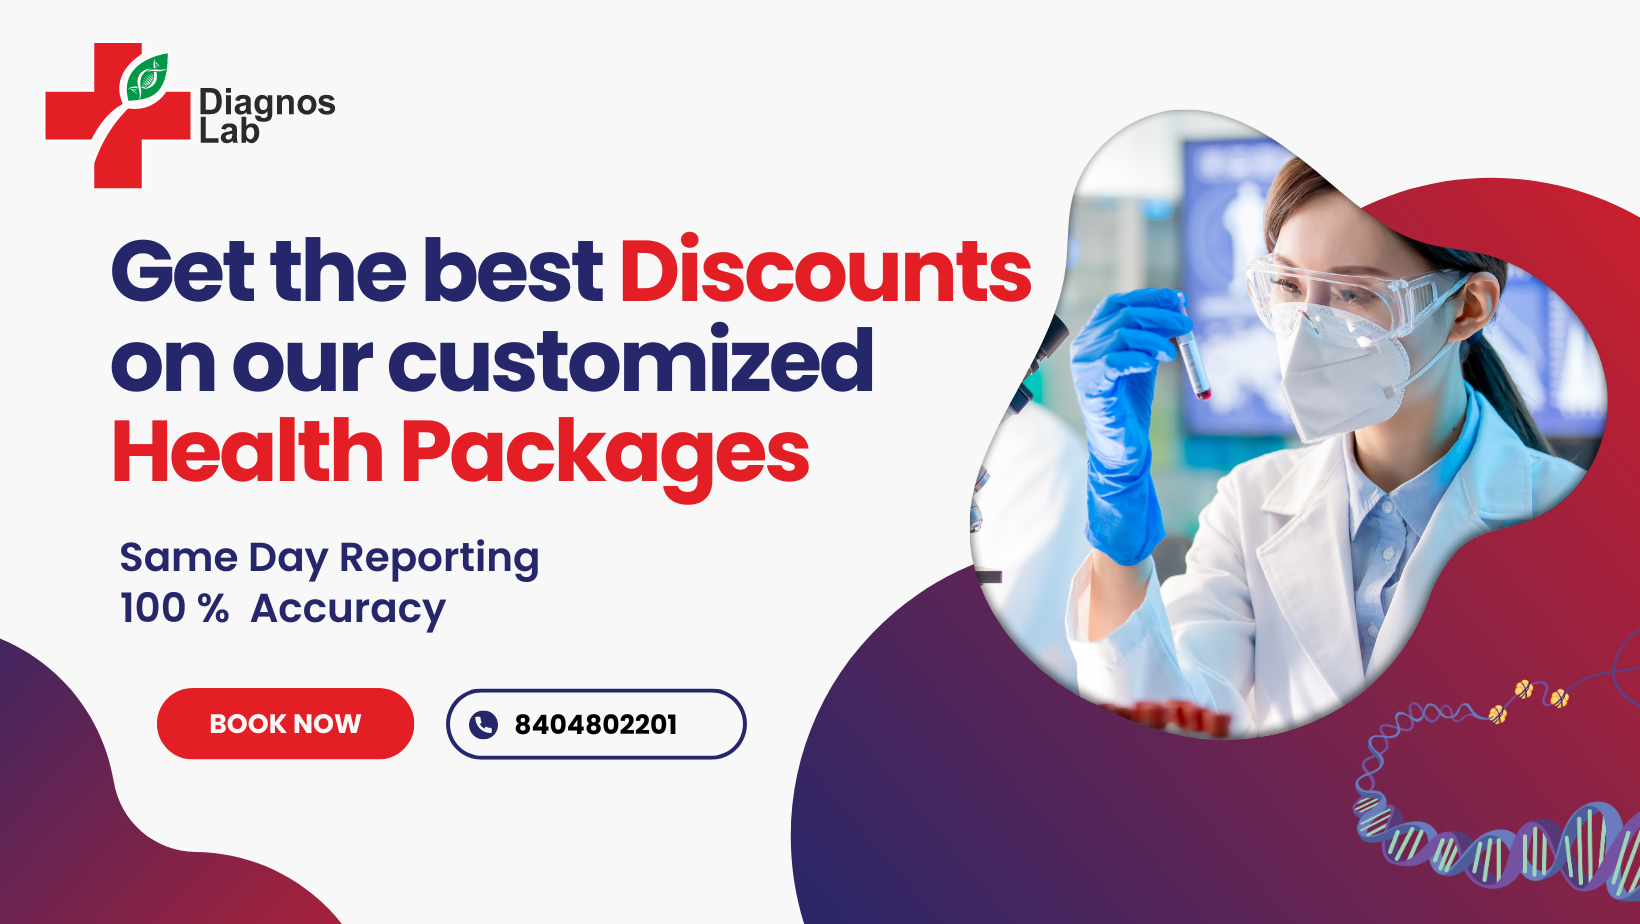
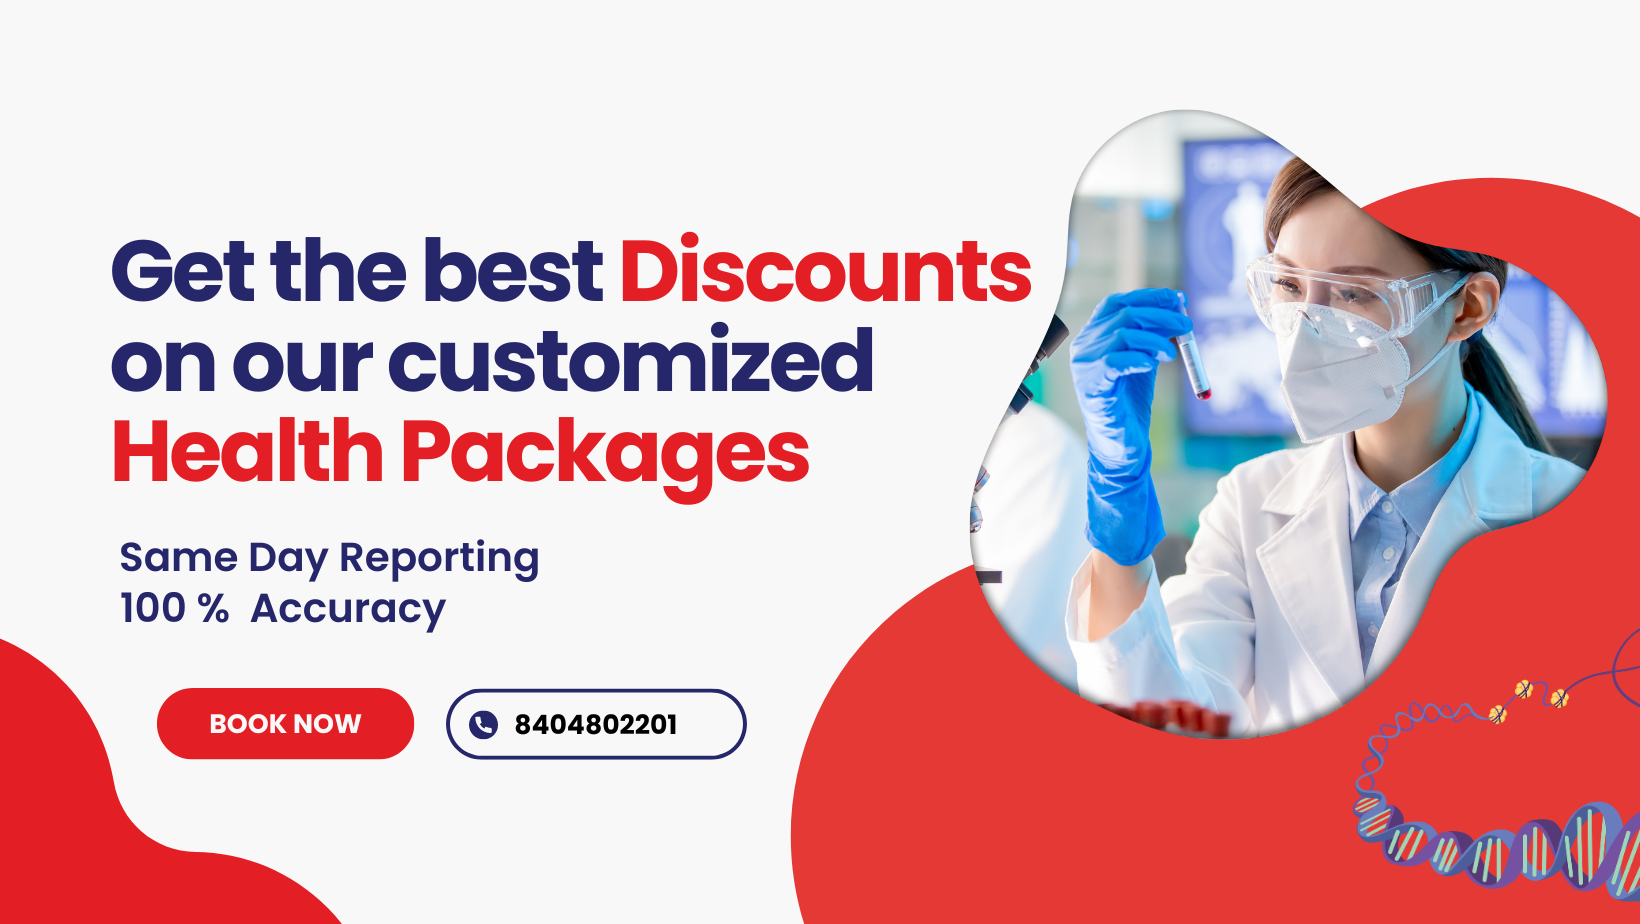
minor commit for deploy

Changed region(s): [[0.4665, 0.1818, 1.0, 1.0], [0.0, 0.697, 0.2177, 1.0], [0.0, 0.0303, 0.2177, 0.2121]]

diff --git a/app/home-collection/page.tsx b/app/home-collection/page.tsx
@@ -1,0 +1,74 @@
+"use client"
+import useFetch from '../hooks/useFetch';
+import Image from "next/image";
+
+const HomeCollection = () => {
+    const { data, loading, error } = useFetch('/home-collection.json');
+
+    if (loading) return <div>Loading...</div>;
+    if (error) return <div>Error: {error.message}</div>;
+    return (
+        <>
+            <div className="flex flex-wrap items-center justify-center mx-auto p-4 text-center border-2">
+                <div className="border-2 rounded-lg border-DiagnosRed p-4">
+                    <h1 className="text-4xl font-bold ">Get your tests done from the comfort of your home.
+                        <p className="text-DiagnosGreen">Fast, Reliable and Secure!</p></h1>
+                    <button className="mt-4 px-6 py-3 bg-DiagnosRed text-white rounded-full">Schedule Your Collection
+                    </button>
+                </div>
+                <div className="my-8">
+                    <h2 className="text-2xl font-semibold mb-4">Why Choose Our Home Collection Services?</h2>
+                    <ul className="list-disc list-inside space-y-2">
+                        <li className="flex items-center justify-center text-xl font-semibold">
+                            <span className="mr-2 text-DiagnosGreen">✔</span>Affordable Health Tests
+                        </li>
+                        <li className="flex items-center justify-center text-xl font-semibold">
+                            <span className="mr-2 text-DiagnosGreen">✔</span>100% Accurate Lab Reports
+                        </li>
+                        <li className="flex items-center justify-center text-xl font-semibold">
+                            <span className="mr-2 text-DiagnosGreen">✔</span>Vacutainer Blood Collection
+                        </li>
+                        <li className="flex items-center justify-center text-xl font-semibold">
+                            <span className="mr-2 text-DiagnosGreen">✔</span>Daily Quality Control Checks
+                        </li>
+                        <li className="flex items-center justify-center text-xl font-semibold">
+                            <span className="mr-2 text-DiagnosGreen">✔</span>Same-Day Diagnostic Reports
+                        </li>
+                    </ul>
+                </div>
+                <div className="flex flex-wrap items-center justify-center my-8">
+                    <h2 className="text-2xl font-semibold mb-4">How Our Home Collection Service Works?</h2>
+                    <Image
+                        src="/how-it-works.png"
+                        width={1024}
+                        height={1024}
+                        alt="hero_banner"
+                        className="rounded-lg "
+                    />
+                </div>
+                <div className="my-8">
+                    <h2 className="text-2xl font-semibold mb-4">Testimonials</h2>
+                    {/* Add testimonials here */}
+                </div>
+                <div className="my-8">
+                    <h2 className="text-2xl font-semibold mb-4">FAQ</h2>
+                    {data.faq.map((faqItem: any, index: number) => (
+                        <div key={index} className="mb-4">
+                            <h3 className="text-xl font-medium">{faqItem.question}</h3>
+                            <p>{faqItem.answer}</p>
+                        </div>
+                    ))}
+                </div>
+                <footer className="text-center py-6">
+                    <h3 className="text-xl font-bold mb-4">Ready to Book Your Home Collection?</h3>
+                    <p>
+                        Book your appointment <a href="/book" className="text-blue-500 underline">here</a> or call us at
+                        +91 8404802201/14
+                    </p>
+                </footer>
+            </div>
+        </>
+    );
+};
+
+export default HomeCollection;

diff --git a/app/hooks/useFetch.ts b/app/hooks/useFetch.ts
@@ -1,0 +1,30 @@
+import { useState, useEffect } from 'react';
+
+const useFetch = (url: string) => {
+    const [data, setData] = useState<any>(null);
+    const [loading, setLoading] = useState<boolean>(true);
+    const [error, setError] = useState<any>(null);
+
+    useEffect(() => {
+        const fetchData = async () => {
+            try {
+                const response = await fetch(url);
+                if (!response.ok) {
+                    throw new Error('Network response was not ok');
+                }
+                const json = await response.json();
+                setData(json);
+                setLoading(false);
+            } catch (error) {
+                setError(error);
+                setLoading(false);
+            }
+        };
+
+        fetchData();
+    }, [url]);
+
+    return { data, loading, error };
+};
+
+export default useFetch;

diff --git a/components/Footer.tsx b/components/Footer.tsx
@@ -12,12 +12,10 @@ function Footer() {
                         {[
                             "Jamshedpur",
                             "Adityapur",
-                            "Ranchi",
-                            "Dhanband",
-                            "Bokara",
+                            "Bokaro",
+                            "Dhanbad",
                             "Dumka",
-                            "Deoghar",
-                            "Chaibasa",
+                            "Deoghar"
                         ].map((city) => (
                             <span key={city}>{city}</span>
                         ))}

diff --git a/app/careers/page.tsx b/app/careers/page.tsx
@@ -47,7 +47,7 @@ const Careers: React.FC = () => {
                             href={job.applyLink}
                             target="_blank"
                             rel="noopener noreferrer"
-                            className="inline-block bg-blue-500 text-white py-2 px-4 rounded hover:bg-blue-600"
+                            className="inline-block bg-DiagnosRed text-white py-2 px-4 rounded hover:bg-DiagnosGreen"
                         >
                             Apply Now
                         </a>

diff --git a/app/page.tsx b/app/page.tsx
@@ -4,6 +4,7 @@ import Image from 'next/image'
 import TestCard, {CardProps} from '../sections/TestCard';
 import {useEffect, useState} from "react";
 import CallBackForm from "@/components/CallBackForm";
+import Whyus from "@/sections/Whyus";
 
 
 export default function Home() {
@@ -47,6 +48,9 @@ export default function Home() {
                     />
                    </div>
                 ))}
+            </section>
+            <section>
+                <Whyus/>
             </section>
         </main>
     );

diff --git a/components/Header.tsx b/components/Header.tsx
@@ -4,7 +4,7 @@ import Image from "next/image";
 function Header() {
     return (<>
     <div className="flex flex-wrap justify-between px-4 pt-12 pb-1 mx-auto shadow-lg">
-        <div className="flex items-start mx-14">
+        <div className="flex items-start">
             <Image src="/DiagnosLabLogo.svg" alt="Diagnos Lab Logo" className="" width={150} height={24} priority/>
         </div>
         <div className="md:block content-center hidden">

diff --git a/tailwind.config.ts b/tailwind.config.ts
@@ -16,9 +16,9 @@ const config: Config = {
           "conic-gradient(from 180deg at 50% 50%, var(--tw-gradient-stops))",
       },
       colors:{
-        "DiagnosRed": "#e53935",
-        "DiagnosGreen": "#e53935",
-
+        "DiagnosRed": "#E53935",
+        "DiagnosGreen": "#3DA060",
+        "NarayanaBlue2": "#35519C",
       }
     },
   },
